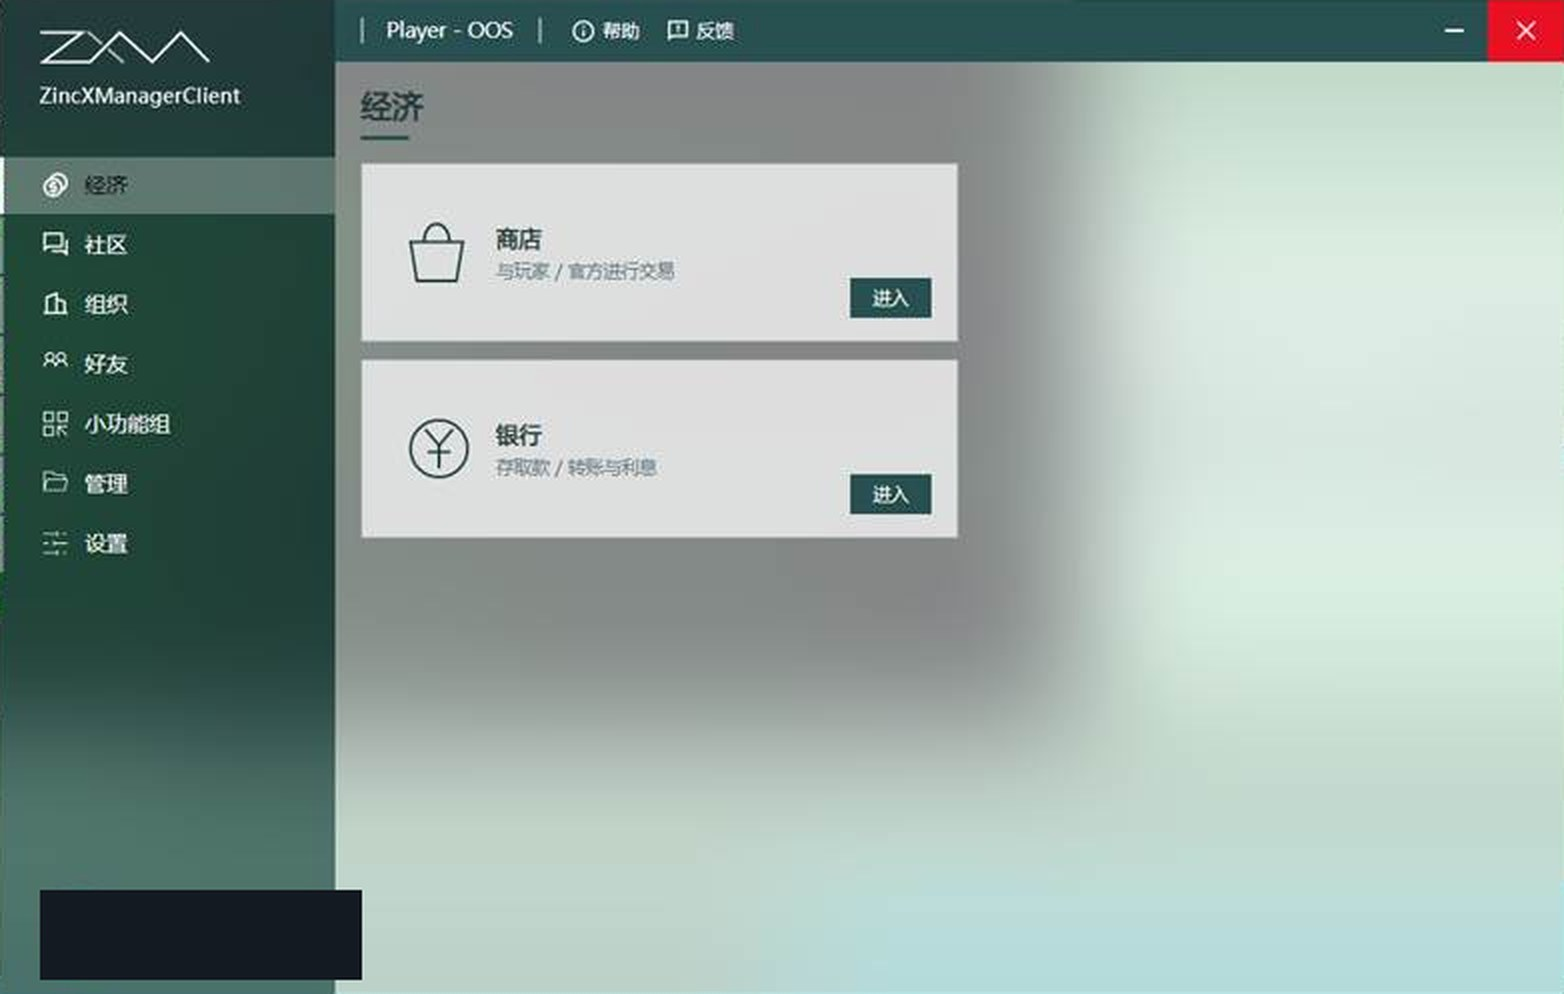
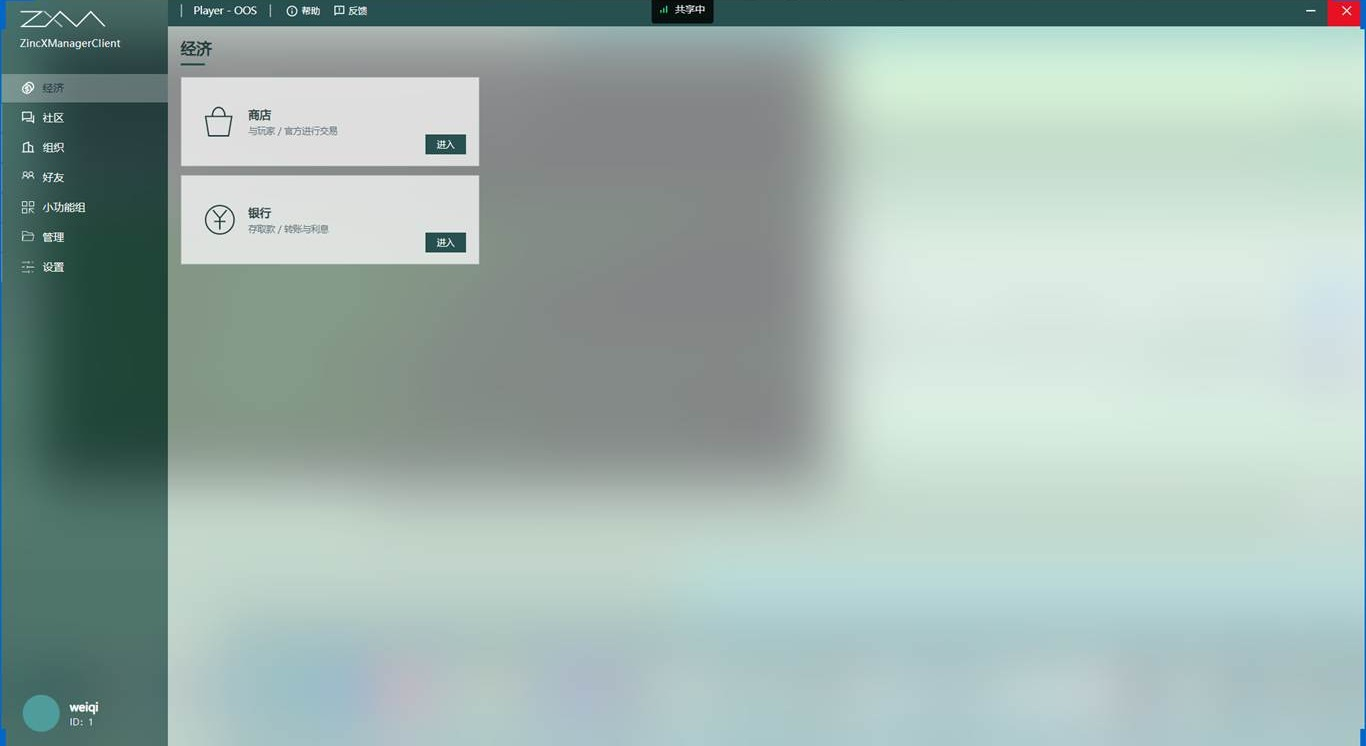
site: ZXMC/ZXMS 都改用全屏实机截图(1366 宽原图裁切,不做脱敏)

diff --git a/docs/index.html b/docs/index.html
@@ -168,37 +168,12 @@
       <p>服主部署在自己机器上的那一端。控制台里敲命令就能管理玩家、配置与日志,向上自动接官方服务端。</p>
     </div>
     <div class="sec-body">
-      <div style="border:1px solid var(--line);background:#05070a;margin-bottom:26px">
-        <div style="display:flex;align-items:center;gap:8px;padding:10px 14px;border-bottom:1px solid var(--line);font-family:Consolas,monospace;font-size:11.5px;color:var(--fg-dim)">
-          <span style="width:9px;height:9px;background:#3b4552;display:inline-block"></span>
-          <span style="width:9px;height:9px;background:#3b4552;display:inline-block"></span>
-          <span style="width:9px;height:9px;background:#3b4552;display:inline-block"></span>
-          <span style="margin-left:10px">ZXMS · 控制台</span>
-        </div>
-        <pre style="margin:0;padding:18px 20px;font-size:12.8px;line-height:1.85;color:#b9d8c4;font-family:Consolas,monospace;white-space:pre-wrap"><span style="color:#4ade80">欢迎使用 ZincXManager 子服务端</span>
-当前版本为 <span style="color:#4ade80">ZXMS-a0.4.1</span>
-ZincXManager 官网 https://weiqi114514.github.io/ZincXManager/
-
-[Info] [zFile]  开启或创建文件 config.ini
-[Info] [官方验证] 对端校验:开(验不过就断开)(config 里 officialcheck=0 可关)
-[Info] [Network] 服务端已启动,监听 0.0.0.0:21000
-[Info] [ZXMS]   已开始监听 0.0.0.0:21000(czport,ZXMC 从这里接入)
-[Info] [ZXMOS]  身份校验通过:ZXMOS
-[Info] [ZXMOS]  服务端名称:锌能源官方服务端
-[Info] [ZXMOS]  已建立加密会话(ECDH P-256 + AES-256-GCM)
-[Info] [ZXMOS]  握手成功:ZXMOS ok
-[Info] [ZXMOS]  账号认证通过:<span style="color:#4ade80">demo</span>
-[Info] [Command] 命令监听已启动,输入 <span style="color:#4ade80">help</span> 查看可用命令
-[Info] 启动成功
-
-&gt; help
-[Info] 可用命令:
-[Info]   file &lt;子命令&gt;    文件操作
-[Info]   log  &lt;子命令&gt;    日志相关
-[Info]   user &lt;子命令&gt;    用户管理
-[Info]   config          查看/修改服务端配置
-[Info]   info            运行信息</pre>
-      </div>
+      <figure style="border:1px solid var(--line);background:var(--ink-2);margin:0 0 26px;overflow:hidden">
+        <img src="assets/img/shots/zxms-ui.jpg" alt="ZincXManager 子服务端 ZXMS 控制台实机界面" style="display:block;width:100%;height:auto">
+        <figcaption style="padding:10px 14px;border-top:1px solid var(--line);font-family:Consolas,monospace;font-size:11.5px;color:var(--fg-dim);letter-spacing:.08em">
+          ZXMS · 启动日志与控制台 · 实机截图
+        </figcaption>
+      </figure>
       <div class="row">
         <div class="side"><h3>一条命令<br>一个动作</h3><p>没有 Web 后台,配置、用户、日志、文件都在控制台里完成。</p></div>
         <div class="items">
